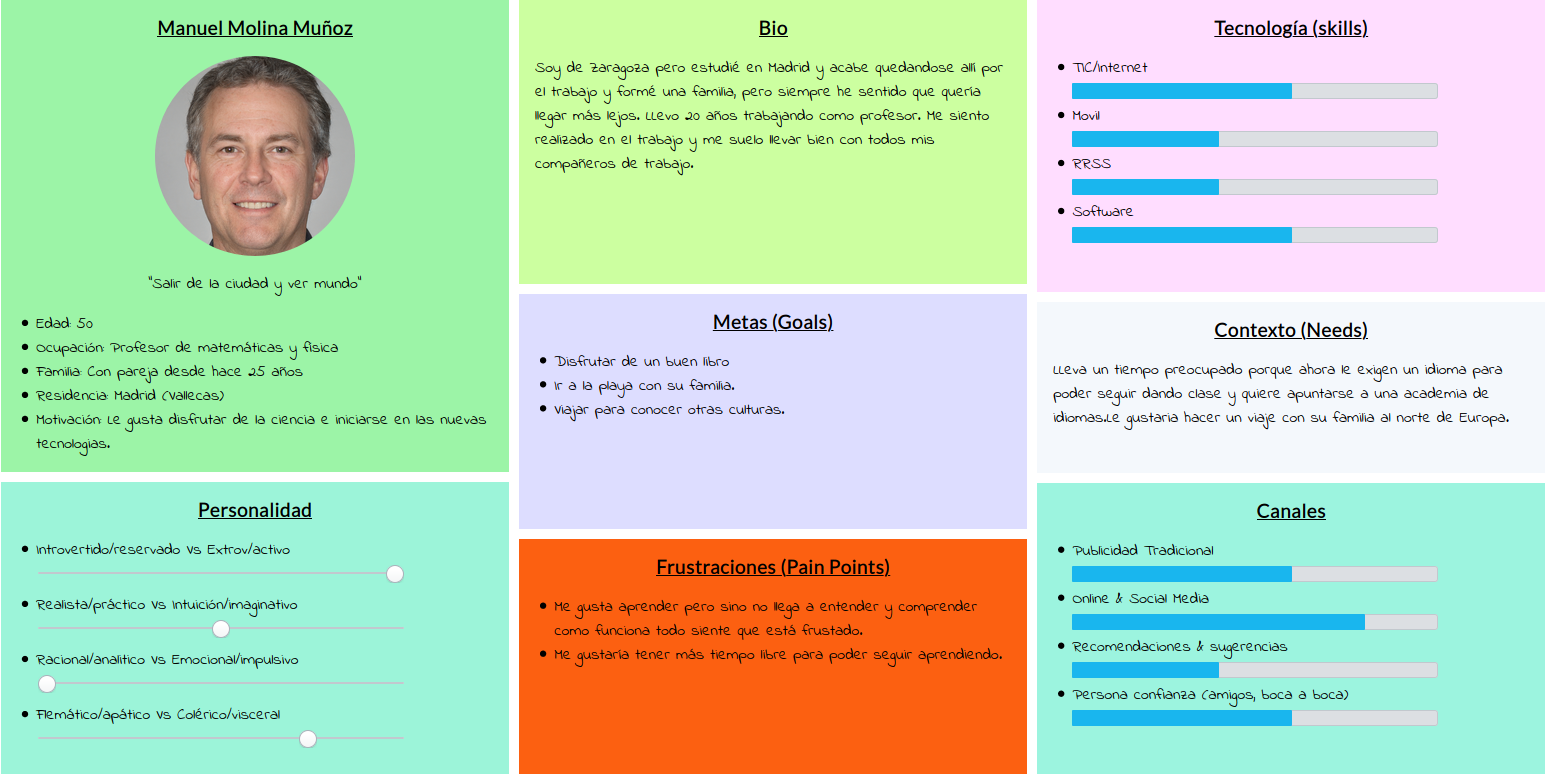
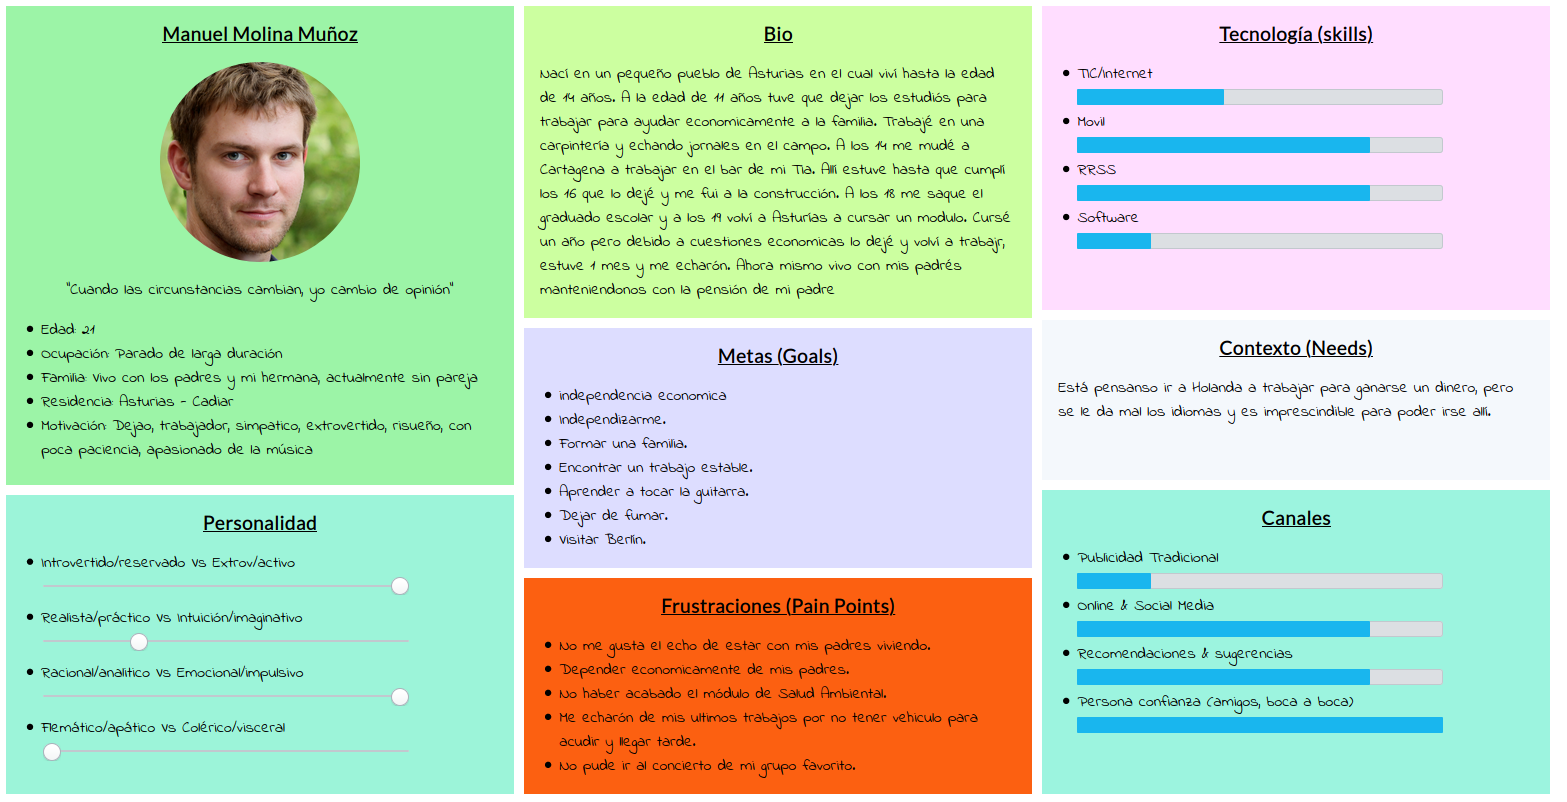
p1

Changed region(s): [[0.0, 0.0, 1.0, 1.0]]

diff --git a/P1/UX-DIU-Toolkit-master/Journey.js b/P1/UX-DIU-Toolkit-master/Journey.js
@@ -31,53 +31,53 @@ angular.module("angular", [])
 
 				Id: 0,
 				Name: "Manuel Molina Muñoz",
-                Photo: "hombre1.jpeg",
+                Photo: "NIÑO1.jpeg",
 
                 /*** PASO #1: INSPIRACION ***/
-                goal1: "La profesora de ingles le ha recomendado para mejorar pronunciación y afinar el oido.",
-                touch1: "Profesora(Conversación)",
-                feel1: "2",
-                con1: "Buscar una alternativa para mejorar lo ve como algo desconocido y novedoso y al principio lo ve con inseguridad.",
+                goal1: "Buscar una alternativa para mejorar su ingles",
+                touch1: "Amigo",
+                feel1: "3",
+                con1: "No tiene  dinero para pagarse una academia de idiomas.",
                 ima1: "cartoon-speaking.png",
 
                 /*** PASO #2: DECICION ***/
-                goal2: "Busca en internet recomendaciones de la profesora y encuentra una varias página que le llama la atención. ",
+                goal2: "Busca en internet una página gratuita para aprender. ",
                 touch2: "ordenador",
                 feel2: "3",
-                con2: "Hay demasiada información sobre demasiadas páginas web y aplicaciones para movil y eso le extresa facilmente.",
+                con2: "Hay demasiada información sobre demasiadas páginas web por lo que se decanta por la recomendación de su amigo.",
                 ima2: "cartoon-PCangry.png",
 
                 /*** PASO #3: ACTUA ***/
 
-                goal3: "Finalmente encuentra una página que le convence y que además ve que hay gente de su edad.",
+                goal3: "Ver lo que oferta.",
                 touch3: "Ordenador",
                 feel3: "2",
-                con3: "Observa que no hay en este momento en su ciudad ningún grupo para quedar y hablar en ingles",
+                con3: "Encuentra la pagina y se registra, pero se le cambia el idioma y no encuentra el lugar donde cambiarlo.",
                 ima3: "cartoon-PChappy.png",
 
                 /*** PASO #4: OBSERVA ***/
 
-                goal4: "Observa que en la página web el mismo puede crear un grupo y que la gente puede unirse a el",
+                goal4: " Cambiar el idioma al español",
                 touch4: "Ordenador",
-                feel4: "4",
-                con4: "El espera que desde el momento en el que ha creado el grupo en la página se una  bastante gente y sin embargo solo se unen dos personas ",
+                feel4: "3",
+                con4: "Al no encontrar el idioma intenta buscar ayuda en la página web",
                 ima4: "cartoon-PCtyping.png",
 
                  /*** PASO #5: ANALIZA ***/
 
-                goal5: "Ve que existe la versión en aplicación y la usa para cuando vaya a esa 'reunión'. ",
-                touch5: "móvil (aplicación)",
-                feel5: "4",
-                con5: "Le parece más intutiva la página web además de que la gente no se pone en acuerdo en el lugar de reunión.",
+                goal5: "Pedir ayuda en el servicio técnico. ",
+                touch5: "Ordenador",
+                feel5: "2",
+                con5: "La página no dispone ni de un correo electrónico y solo hay un chat de ayuda que responde solo en ingles pasado un tiempo.",
                 ima5: "cartoon-phone.png",
 
 
                 /*** PASO #6: CONCLUSION ***/
 
-                goal6: "Consigue poner en acuerdo al grupo en el lugar acordado",
-                touch6: "móvil (aplicación)",
-                feel6: "5",
-                con6: "A pesar de poner a todo el mundo en acuerdo,el llegará tarde",
+                goal6: "Pedir ayuda a su amigo",
+                touch6: "Ordenador",
+                feel6: "1",
+                con6: "Le pide ayuda a su amigo para que le cambie el idioma y le ayude a comprender la página",
                 ima6: "cartoon-resting.png",
 
 			},
@@ -92,50 +92,50 @@ angular.module("angular", [])
                 Photo: "mujer1.jpeg",
 
 				 /*** PASO #1: INSPIRACION ***/
-                goal1: "Quiere que sus hijas aprendan más idiomas además de que ella puede aprovechar el mismo objetivo.",
-                touch1: "Agenda",
+                goal1: "Mejorar su pronunciación y vocabulario.",
+                touch1: "Profesora de academia",
                 feel1: "2",
-                con1: "No tiene tiempo de apuntarse a una academia y las que encuentra tiene un precio elevado.",
+                con1: "La profesora le recomienda que para mejorar le es necesario mantener conversaciones.",
                 ima1: "cartoon-thinking.png",
 
                 /*** PASO #2: DECICION ***/
-                goal2: "Le cuenta el problema a un compañero de trabajo y el recomienda que use muchas de las web que hay para idiomas ",
+                goal2: "Bucar gente con la que mantener conversaciones.",
                 touch2: "Conversación(compañero de trabajo).",
                 feel2: "4",
-                con2: "Se agobia al ver tantas página web dedicadas a los idiomas y que les muestra demasiada información.",
+                con2: "Consutla recomendaciones de distintas paginas, y se decide por meeting que aparentemente tiene bastante movimiento.",
                 ima2: "cartoon-PChard.png",
 
                 /*** PASO #3: ACTUA ***/
 
-                goal3: "Encuentra una página que le llama la atención y que puede ser la apropiada ",
+                goal3: "Encuentra un evento en el cual está interesada.",
                 touch3: "Ordenador",
                 feel3: "3",
-                con3: "Piensa que está perdiendo el tiempo y que no tendrá tiempo para esto.",
+                con3: "Ve una quedada con gente nativa de ingles, en una sala cercana a la playa.",
                 ima3: "cartoon-phoningangry.png",
 
                 /*** PASO #4: OBSERVA ***/
 
-                goal4: "A los dias vuelve a probar con la página y observa que se van a reunir en un bar cercano.",
+                goal4: "Evitar que sepan que va.",
                 touch4: "Ordenador.",
                 feel4: "4",
-                con4: "Le preocupa que sus hijas no puedan ir a la reunión.",
+                con4: "Ve que su exmarido se ha inscrito al mismo eventoy ella tenia pensado dejarle los niños ese finde, diciendole que tenia trabajo.",
                 ima4: "cartoon-deciding.png",
 
                  /*** PASO #5: ANALIZA ***/
 
-                goal5: "Las personas que forman el grupo le dicen que no hay problema con sus hijas y que pueden asistir ",
+                goal5: "Buscar una manera de que no sepan que es ella.",
                 touch5: "Ordenador.",
-                feel5: "5",
-                con5: "Se ve insegura al volver empezar a hablar otro idioma.",
+                feel5: "3",
+                con5: "Busca algún tipo de modo oculto, por lo que cambia su foto por otra y de nombre se pone el noombre de pila .",
                 ima5: "cartoon-phone-sitting.png",
 
 
                 /*** PASO #6: CONCLUSION ***/
 
-                goal6: "Al final su jefe le cambia el turno en el ultimo momento y no puede asistir",
+                goal6: "Asiste a la reunión.",
                 touch6: "Ordenador.",
                 feel6: "1",
-                con6: "Tendrá que quedar otro dia para poder con al gente de la aplicación",
+                con6: "El exmarido se da cuenta del nombre de pila y la llama por telefono",
                 ima6: "cartoon-speaking.png",
 
 

diff --git a/P1/README.md b/P1/README.md
@@ -56,12 +56,12 @@ Por último, también hemos creado a Noelia, la cual es una persona bastante tí
 >>> - Comentario sobre la valoración:En general la web cumple con las principales características y metas que se persiguen.La información que se muestra es precisa y no es redundante.Los resultados de las búsquedas son relevante y precisas.El rendimiento de la página es excelente.Existen otros aspectos que no han sido muy gratificantes.Las funciones de volver atrás fallaban y te llevaba a una pantalla en blanco.En la página hay marcadores que están descuadrados.La ubicación actual no está clara .La búsqueda por parámetros múltiples es bastante pobre.No hay búsquedas comunes sino que ya están definidas.Los usuarios no pueden enviar comentario,no hay correo de la empresa y solo hay un chat de ayuda.
 
 
-|VALORACIÓN  | ASPECTOS POSITIVOS                                    | ASPECTOS NEGATIVOS |
-| :------:   | :------:                                              | :------:           |
-|            | Cumple con el objetivo que se persigue                |  Volver atrás te lleva a una página en blanco         |
-|            | La información precisa y no redundante                |  Los marcadores descuadrados             |
-|            | Los resultado de las búsquedas relevantes.            |  Ubicación no clara                |
-|            | Resultados precisos.                                  |  Parámetros múltiples pobre                |
-|            | Buen rendimiento de la página.                        |  No búsquedas comunes                |
-|            |                                                       |  No se pueden enviar comentarios                |
-|            |                                                       |  No hay correo de la empresa                |
+| ASPECTOS POSITIVOS                                    | ASPECTOS NEGATIVOS |
+| :------:                                              | :------:           |
+| Cumple con el objetivo que se persigue                |  Volver atrás te lleva a una página en blanco         |
+| La información precisa y no redundante                |  Los marcadores descuadrados             |
+| Los resultado de las búsquedas relevantes.            |  Ubicación no clara                |
+| Resultados precisos.                                  |  Parámetros múltiples pobre                |
+| Buen rendimiento de la página.                        |  No búsquedas comunes                |
+|                                                       |  No se pueden enviar comentarios                |
+|                                                       |  No hay correo de la empresa                |
